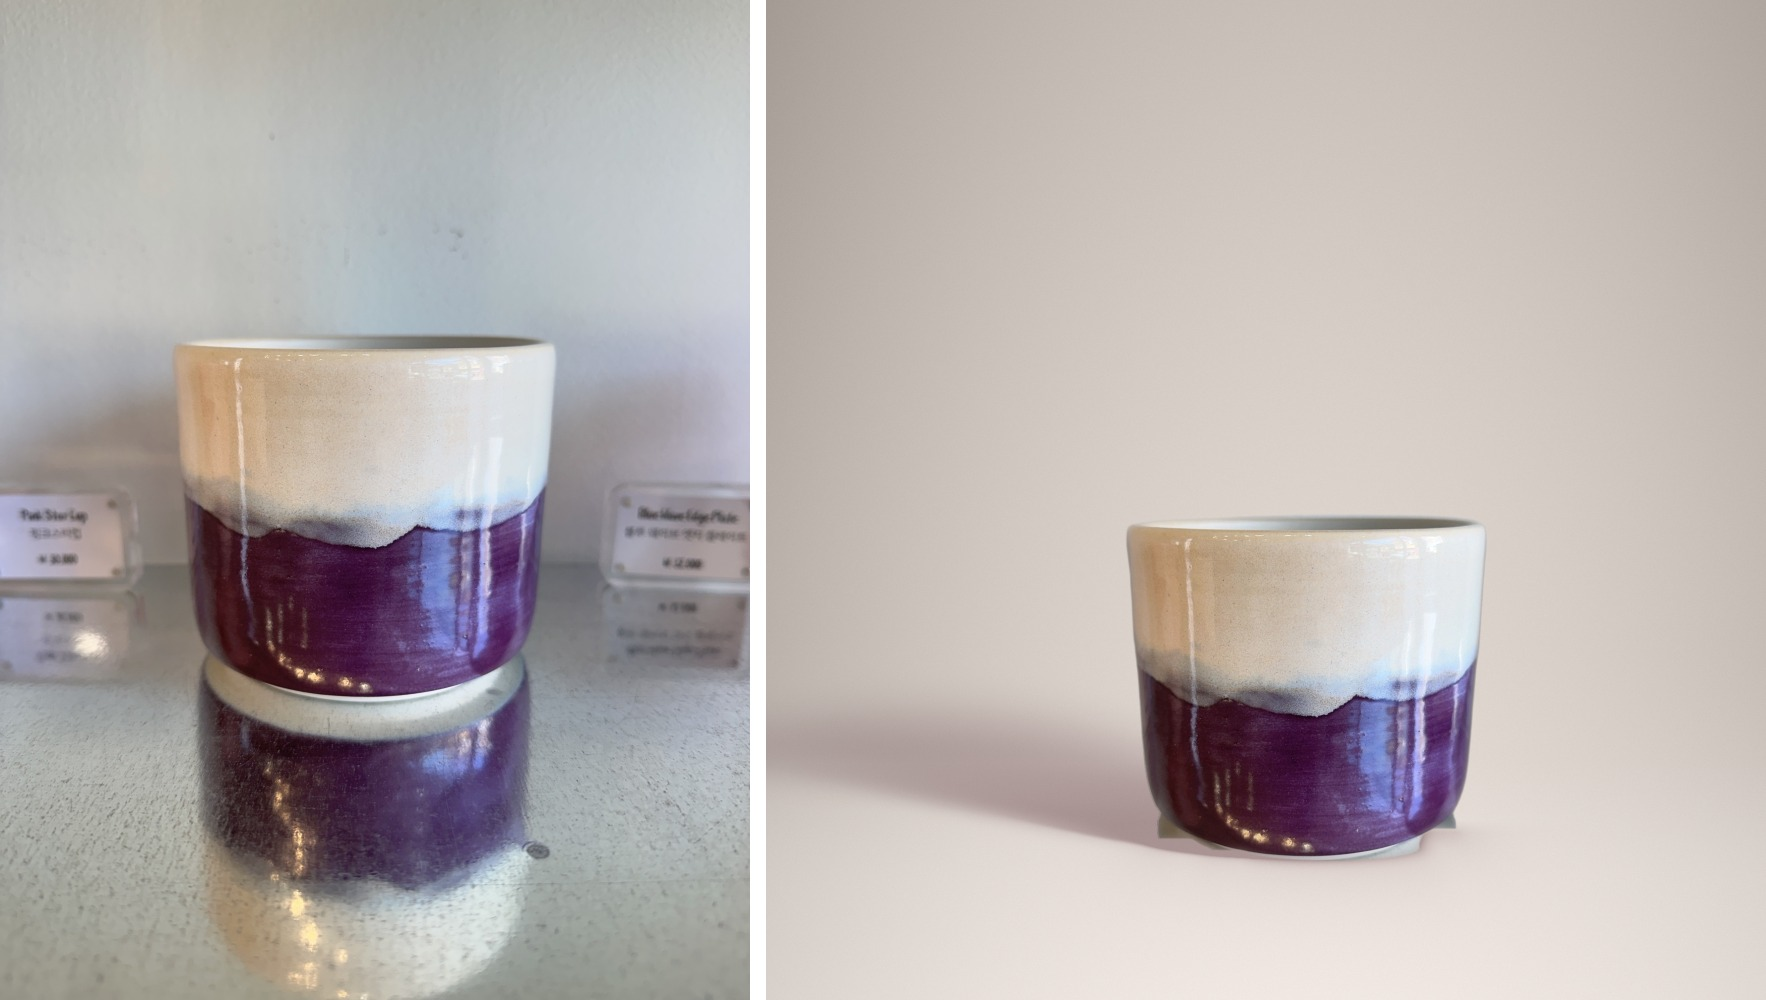
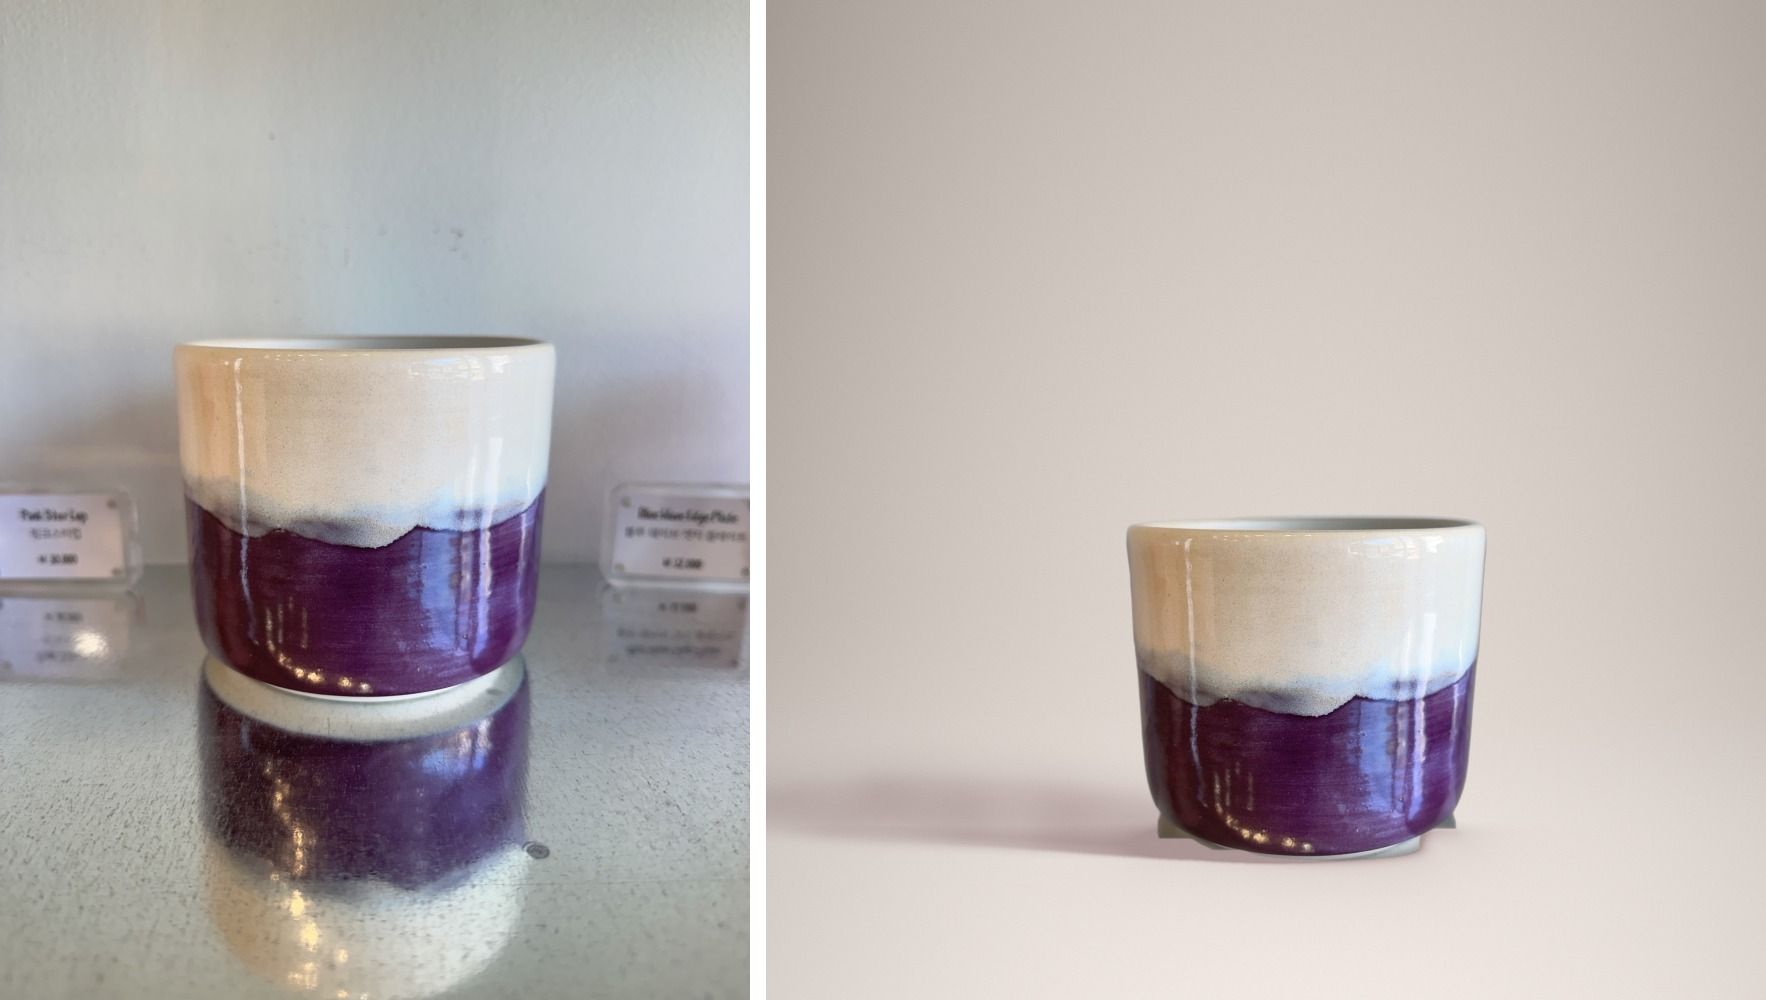
Studio shots: match backdrop and shadow to the photo's camera angle; firmer contact
- Estimate the camera's downward angle from the foot ellipse and derive
  the wall-to-floor transition height and the cast shadow's length, rise
  and depth from it and a light elevation (--light-elevation, --light-back),
  so the floor plane and shadow agree with how the product was shot.
- Cast shadow gets a denser core with a softer edge and a slight, distance-
  dependent unevenness (--cast-texture).
- Darker, tighter contact shadow, and the product's lowest rim is shaded
  so it sits in its own shadow; slightly stronger directional shading.
- Regenerate all 15 studio samples; document in CLAUDE.md.

Claude-Session: https://claude.ai/code/session_01WGwx9JVhJ7CYZxXMbtASsV

Changed region(s): [[0.436, 0.713, 0.8097, 0.868]]

diff --git a/tools/studio_shot.py b/tools/studio_shot.py
@@ -42,6 +42,12 @@ def build_parser():
                    help="벽→바닥 전환 위치: 바닥 닿는 선보다 캔버스 높이의 몇 배 위")
     g.add_argument("--horizon-soft", type=float, default=0.26,
                    help="벽→바닥이 섞이는 폭(캔버스 높이 비율). 클수록 경계 없이 부드럽게")
+    g.add_argument("--no-camera-match", dest="camera_match", action="store_false",
+                   help="배경·그림자를 제품 사진의 카메라 높이에 맞추지 않고 고정값 사용")
+    g.add_argument("--light-elevation", type=float, default=38.0,
+                   help="빛의 고도(도). 낮을수록 그림자가 길다")
+    g.add_argument("--light-back", type=float, default=0.5,
+                   help="그림자가 옆(1) 대비 뒤쪽으로 향하는 비율")
     g.add_argument("--fill-holes", action="store_true",
                    help="제품 안쪽 구멍(화분 바닥 물구멍 등)을 제품으로 유지")
     g.add_argument("--relight-inputs",
@@ -51,7 +57,8 @@ def build_parser():
     p.set_defaults(out_dir="samples/studio", light="right", reflect=0.0,
                    shadow_tint="0.60,0.63,0.67", cast_length=1.15, cast_rise=0.28,
                    cast_strength=1.0, cast_blur=0.07, cast_fade=0.4,
-                   contact_strength=0.75, ao_strength=0.2, ao_size=0.3, wrap=0.3)
+                   contact_strength=0.95, contact_size=0.06, ao_strength=0.2, ao_size=0.3,
+                   wrap=0.3, product_ao=0.28, shade=0.16, cast_texture=0.12)
     return p
 
 
@@ -127,7 +134,20 @@ def main():
     a_t[ty:ty + ch, tx:tx + cw] = ca
 
     wall = studio.parse_hex(P.wall)
-    _, _, _, _, b0 = studio.footprint(a_t)
+    _, _, fa, fb, b0 = studio.footprint(a_t)
+    # 카메라 높이 추정: 굽 바닥 타원의 납작함 b/a ≈ sin(카메라가 내려다보는 각도)
+    cam = float(np.clip(fb / max(fa, 1), 0.10, 0.60))
+    if P.camera_match:
+        cos = float(np.sqrt(1 - cam * cam))
+        # 바닥이 화면에서 차지하는 깊이는 sin 에 비례 → 많이 내려다볼수록 벽·바닥 전환이 위로
+        P.horizon = 0.05 + 0.55 * cam
+        # 그림자: 빛 고도 light_elevation, 바닥에서 옆(1)·뒤(light_back) 방향으로 눕는다.
+        # 화면에서 높이 t 인 점의 실제 높이는 t/cos, 바닥의 앞뒤 거리는 sin 만큼 줄어 보인다
+        L = 1.0 / np.tan(np.deg2rad(P.light_elevation)) / cos
+        n = float(np.hypot(1.0, P.light_back))
+        P.cast_length = L / n
+        P.cast_rise = L * P.light_back / n * cam
+        P.cast_min_depth = cam
     seam = b0 - P.horizon * S
     bg = studio.backdrop_studio(S, S, wall, seam, b0, light_x, soft=P.horizon_soft)
     floor_bgr = np.median(bg[min(b0 + 20, S - 1):, :].reshape(-1, 3), 0)
@@ -164,7 +184,7 @@ def main():
     cv2.imwrite(os.path.join(P.out_dir, f"{name}_compare.jpg"),
                 np.hstack([o_small, gap, cv2.resize(out, (oh, oh), interpolation=cv2.INTER_AREA)]),
                 [cv2.IMWRITE_JPEG_QUALITY, 92])
-    print(f"{name}: {S}x{S}, 제품 배율 {f:.2f}, 저장 {res}")
+    print(f"{name}: {S}x{S}, 제품 배율 {f:.2f}, 카메라 {np.degrees(np.arcsin(cam)):.0f}도, 저장 {res}")
 
 
 if __name__ == "__main__":

diff --git a/tools/catalog_shot.py b/tools/catalog_shot.py
@@ -81,6 +81,8 @@ def build_parser():
     g.add_argument("--cast-min-depth", type=float, default=0.16,
                    help="사선 그림자의 최소 두께 비율(제품 폭 대비). 낮은 카메라 각도에서 그림자가 "
                         "실처럼 얇아지는 것 방지")
+    g.add_argument("--cast-texture", type=float, default=0.0,
+                   help="그림자 농도의 자연스러운 불균일(0=없음). 멀어질수록 조금씩 얼룩지게")
     g.add_argument("--shadow-color", type=float, default=0.3,
                    help="그림자에 제품 색을 섞는 정도 0~1 (제품 색이 바닥에 은은하게 배어 보이게)")
     g.add_argument("--cast-fade", type=float, default=0.55,
@@ -216,6 +218,15 @@ def shadow_map(alpha, light_x, P, seam=None):
     k = dist * 2
     cast = np.where(k < 1, bl[0] * (1 - k) + bl[1] * k, bl[1] * (2 - k) + bl[2] * (k - 1))
     cast *= (1 - P.cast_fade * dist)
+    # 본그림자(짙은 중심) + 반그림자(옅은 가장자리): 가장자리를 한 번 더 깎아 중심이 더 짙게
+    core = cv2.GaussianBlur(proj, (0, 0), max(H * P.cast_blur * 0.5, 1))
+    cast = cast * (0.7 + 0.3 * np.clip(core * 1.6 - 0.3, 0, 1))
+    # 실제 그림자처럼 농도가 아주 조금 고르지 않게 (저주파 얼룩, 눈에 띄지 않는 수준)
+    if P.cast_texture > 0:
+        rng = np.random.default_rng(7)
+        nz = cv2.resize(rng.random((max(h // 90, 2), max(w // 90, 2))).astype(np.float32), (w, h),
+                        interpolation=cv2.INTER_CUBIC)
+        cast *= 1 - P.cast_texture * (nz - 0.5) * 2 * dist
     cast *= (1 - sil)                                               # 제품 위에는 그리지 않음
 
     # 사선 그림자는 바닥 전체(벽·바닥 경계 아래)에, 접촉·AO 는 굽 근처 바닥에만
@@ -267,6 +278,8 @@ def harmonize_product(img_t, alpha, bg, floor_bgr, P):
     band = max(P.product_ao_height * H, 4)
     near = np.clip(1 - up / band, 0, 1) ** 1.8 * m
     prod = prod * (1 - P.product_ao * near[..., None])
+    tight = np.clip(1 - up / max(band * 0.22, 2), 0, 1) ** 1.5 * m     # 바닥에 닿는 맨 아래 띠
+    prod = prod * (1 - P.product_ao * 0.9 * tight[..., None])
     glow = np.clip(1 - up / (band * 1.8), 0, 1) ** 1.2 * m
     prod = prod + (np.asarray(floor_bgr, np.float32) - prod) * (P.bounce * glow)[..., None] * 0.5
 

diff --git a/CLAUDE.md b/CLAUDE.md
@@ -73,6 +73,12 @@ python tools/replace_background.py <접시>.jpg <결과>.jpg --canvas 2273x1705 
   (lilac_side 에서 발생). birefnet 마스크가 이미 굽 끝에서 끝나면 `none` 을 쓴다.
   새 사진은 먼저 마스크 윤곽을 원본 위에 겹쳐 보고 방식을 고른다.
 
+- 배경·그림자는 제품 사진의 카메라 높이에 맞춘다(`studio_shot.py` 기본): 굽 바닥 타원의 납작함으로
+  내려다보는 각도를 추정해, 벽→바닥 전환 높이와 그림자의 길이·기울기·두께를 계산한다.
+  고정값으로 되돌리면 "붙여 놓은" 느낌이 커진다. 빛은 `--light-elevation`(기본 38도), `--light-back`.
+- 굽이 바닥에 닿는 맨 아래 띠를 어둡게 해야 눌러앉아 보인다(`harmonize_product` 의 tight 항,
+  `--product-ao`). 접촉 그림자는 진하고 좁게(`contact_strength=0.95, contact_size=0.06`).
+
 **제품 색**
 - 푸른 끼 제거를 제품 전체에 적용하면 고유색이 바랜다(모래색 컵이 회색이 됨) →
   흰색에 가까운 저채도 영역에만 적용(`harmonize_product`). 범위를 넓히지 말 것.
